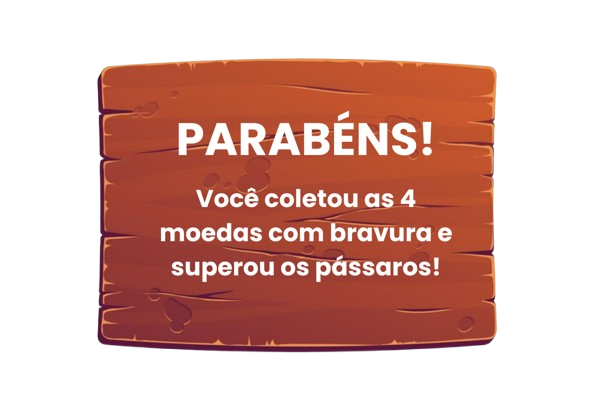
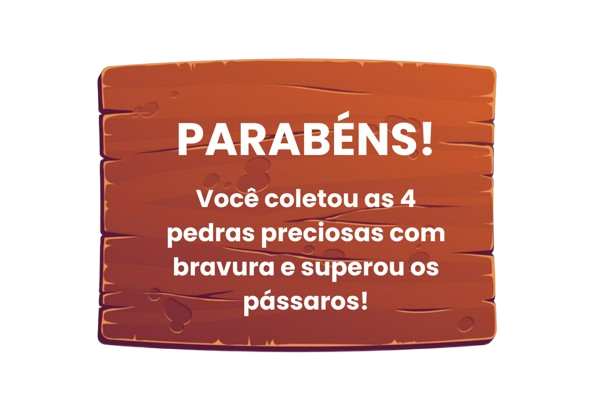
gameFinalizado

Changed region(s): [[0.2484, 0.5294, 0.7451, 0.7647]]

diff --git a/src/game.js b/src/game.js
@@ -6,12 +6,12 @@ class GameScene extends Phaser.Scene{
 
     //Carregando os elementos visuais do jogo (imagens, spritesheet e fonte).
     preload(){
-        this.load.spritesheet('player', 'assets/completePlayerSpritesheet.png', {frameWidth: 152, frameHeight: 129});
-        this.load.spritesheet('birdEnemy', 'assets/completeBirdSpritesheet.png', {frameWidth: 179,  frameHeight: 181});
-        this.load.image('backgroundGameScene', 'assets/background.jpg');
-        this.load.image('platform', 'assets/plataform.png');
-        this.load.image('platform2', 'assets/platform2.png');
-        this.load.spritesheet('coins', 'assets/coin.png', {frameWidth: 10, frameHeight: 10});
+        this.load.spritesheet('player', 'assets/completePlayerSpritesheet.png', {frameWidth: 152, frameHeight: 129}); //***REQUISITO DA ATIVIDADE: USO DE SPRITESHEET (PERSONAGEM).
+        this.load.spritesheet('birdEnemy', 'assets/completeBirdSpritesheet.png', {frameWidth: 179,  frameHeight: 181}); //***REQUISITO DA ATIVIDADE: USO DE SPRITESHEET (PÁSSARO INIMIGO).
+        this.load.image('backgroundGameScene', 'assets/background.jpg'); //***REQUISITO DA ATIVIDADE: CENÁRIO.
+        this.load.image('platform', 'assets/plataform.png'); //***REQUISITO DA ATIVIDADE: PLATAFORMA.
+        this.load.image('platform2', 'assets/platform2.png'); //***REQUISITO DA ATIVIDADE: PLATAFORMA.
+        this.load.image('gems', 'assets/gem.png');
         let poppins = new FontFace('Poppins', 'url(assets/Poppins-Bold.ttf)');
             poppins.load().then((loadedFont) => {
                 document.fonts.add(loadedFont);
@@ -26,21 +26,21 @@ class GameScene extends Phaser.Scene{
         this.physics.world.setBounds(0, 0, gameWidth * 2, gameHeight);
 
 
-        //Adicionando o background.
+        //Adicionando o background -> REQUISITO DA ATIVIDADE: CENÁRIO.
         this.background = this.add.tileSprite(0, 0, gameWidth, gameHeight, 'backgroundGameScene');
         this.background.setOrigin(0, 0);
         this.background.setScrollFactor(0); //Mantém o background fixo na tela durante o efeito parallax.
         this.background.setDisplaySize(gameWidth, gameHeight); //Tamanho do fundo
 
 
-        //Criando o jogador.
+        //Criando o jogador -> REQUISITO DA ATIVIDADE: USO DE SPRITESHEET (PERSONAGEM).
         this.player = this.physics.add.sprite(100, 200, 'player').setScale(0.5);
         this.player.setCollideWorldBounds(true);
         this.cameras.main.startFollow(this.player);
         this.cameras.main.setBounds(0, 0, gameWidth * 2, gameHeight);
 
 
-        //***ANIMAÇÕES DO JOGADOR***/
+        //***ANIMAÇÕES DO JOGADOR -> REQUISITO DA ATIVIDADE: USO DE SPRITESHEET (PERSONAGEM).***/
         //Animação: jogador parado.
         this.anims.create({
             key: 'stopped',
@@ -68,52 +68,56 @@ class GameScene extends Phaser.Scene{
         this.player.anims.play('stopped', true); //O jogador inicia o jogo com a animação de parado.
 
 
-         //Criando as plataformas.
+         //Criando as plataformas -> REQUISITOS DA ATIVIDADE: PLATAFORMA E LISTA.
          this.platforms = this.physics.add.staticGroup();
          var platformsList = ['platform', 'platform2', 'platform', 'platform2','platform', 'platform2','platform', 'platform2', 'platform', 'platform2'];
          var horizontalSpaceBetweenPlatforms = gameWidth * 4.5/platformsList.length;
 
 
-        //Texto dos pontos.
-        this.pointsText = this.add.text(100, 200, 'Moedas: 0').setScrollFactor(0).setStyle({fontSize: '40px', fontFamily: "Poppins"});
+        //Texto dos pontos -> REQUISITO DA ATIVIDADE: PLACAR.
+        this.pointsText = this.add.text(100, 200, 'Pedras preciosas: 0').setScrollFactor(0).setStyle({fontSize: '40px', fontFamily: "Poppins"});
 
 
-        //Grupos das moedinhas da recompensa.
-        this.coins = this.physics.add.group();
+        //Grupos das pedras preciosas da recompensa.
+        this.gems = this.physics.add.group();
 
 
-        // Laço de repetição para criar as plataformas e as moedinhas em cima delas.
+        // Laço de repetição para criar as plataformas e as pedras preciosas em cima delas -> REQUISITO DA ATIVIDADE: ESTRUTURA DE REPETIÇÃO.
         for (let i = 0; i < platformsList.length; i++) {
             let platformPositionX = horizontalSpaceBetweenPlatforms * i + Phaser.Math.Between(50, 75);
             var platformPositionY = Phaser.Math.Between(gameHeight / 2, gameHeight - 105);
             this.platforms.create(platformPositionX, platformPositionY, platformsList[i]).setScale(0.7).refreshBody();
             
-            // Na primeira plataforma (posição 0), não aparece moeda.
+
+            // Na primeira plataforma (posição 0), não aparece pedra preciosa -> REQUISITO DA ATIVIDADE: ESTRUTURA DE DECISÃO.
             if (i === 0) {
                 continue; // Usando o continue (lembrando dos autoestudos de computação da semana 2).
             }
 
-            //Posição das moedinhas alinhada com a da plataforma.
-            let coinPositionX = platformPositionX;
-            let coinPositionY = platformPositionY - 200;
+            //Posição das pedras preciosas alinhada com a da plataforma.
+            let gemPositionX = platformPositionX;
+            let gemPositionY = platformPositionY - 200;
 
-            // Posicionando as moedas nas plataformas (menos na primeira).
-            this.coins.create(coinPositionX, coinPositionY, 'coins').setScale(2.5);
+            // Posicionando as pedras preciosas nas plataformas (menos na primeira).
+            this.gems.create(gemPositionX, gemPositionY, 'gems').setScale(0.07);
         }
 
 
-         //Quando o jogador coleta as moedinhas, ele ganha pontos.
+         //Quando o jogador coleta as pedras preciosas, ele ganha pontos -> REQUISITO DA ATIVIDADE: PLACAR (PONTUAÇÃO).
          this.points = 0;
-         this.physics.add.overlap(this.player, this.coins, function(player, coin){
-            if(coin.active){
-                coin.setVisible(false);
-                coin.destroy();
+
+
+         //REQUISITO DA ATIVIDADE: RECURSOS DE OVERLAP OU COLISÃO (jogador e pedra preciosa).
+         this.physics.add.overlap(this.player, this.gems, function(player, gem){
+            if(gem.active){
+                gem.setVisible(false);
+                gem.destroy();
                 this.points = this.points + 1;
-                this.pointsText.setText('Moedas: ' + this.points);
+                this.pointsText.setText('Pedras preciosas: ' + this.points);
             }
 
 
-            //Se o jogador coletar todas as moedas, ele é direcionado à cena de vitória.
+            //Se o jogador coletar todas as pedras preciosas, ele é direcionado à cena de vitória -> REQUISITO DA ATIVIDADE: ESTRUTURA DE DECISÃO.
             if(this.points === 4){
                 this.scene.start("WinScene");
             }
@@ -121,7 +125,7 @@ class GameScene extends Phaser.Scene{
 
 
 
-        //*** PÁSSAROS: INIMIGOS -> O JOGADOR NÃO PODE ENCOSTAR NELES***/
+        //*** PÁSSAROS: INIMIGOS -> O JOGADOR NÃO PODE ENCOSTAR NELES -> REQUISITO DA ATIVIDADE: USO DE SPRITESHEET (PÁSSARO INIMIGO)***/
         //Pássaros.
         this.birds = this.physics.add.group({key: 'birdEnemy'});
 
@@ -142,12 +146,12 @@ class GameScene extends Phaser.Scene{
         });
 
 
-        //***COLISÕES***
+        //***COLISÕES -> REQUISITO DA ATIVIDADE: RECURSOS DE OVERLAP OU COLISÃO***
         //Adicionando a colisão entre jogador e plataformas.
         this.physics.add.collider(this.player, this.platforms);
 
-        //Adicionando a colisão entre moedinhas e plataformas.
-        this.physics.add.collider(this.coins, this.platforms);
+        //Adicionando a colisão entre as pedras preciosas e plataformas.
+        this.physics.add.collider(this.gems, this.platforms);
 
         //Adicionando a colisão entre o jogador e o pássaro, chamando a função hitPlayer.
         this.physics.add.overlap(this.player, this.birds, this.hitPlayer, null, this);
@@ -192,7 +196,7 @@ class GameScene extends Phaser.Scene{
         
     }
 
-    //Função para fazer os pássaros aparecem na tela de forma animada, vindo da direita para a esquerda.
+    //Função para fazer os pássaros aparecem na tela de forma animada, vindo da direita para a esquerda -> REQUISITO DA ATIVIDADE: USO DE FUNÇÃO.
     spawnBird() {
         var birdPositionX = Phaser.Math.Between(this.scale.width, this.scale.width * 2); //Posição horizontal do pássaro.
 
@@ -204,7 +208,8 @@ class GameScene extends Phaser.Scene{
         //Escolhendo uma plataforma qualquer para associar ao pássaro.
         platformY = this.platforms.getChildren()[randomPlatform].y;
 
-        //Com este laço de repetição, o pássaro não passa tão perto da plataforma, mas nem tão longe também.
+
+        //Com este laço de repetição, o pássaro não passa tão perto da plataforma, mas nem tão longe também -> REQUISITO DA ATIVIDADE: ESTRUTURA DE REPETIÇÃO.
         do {
             birdPositionY = Phaser.Math.Between(200, this.scale.height / 3);
         } while (Math.abs(birdPositionY - platformY) < 100); 
@@ -229,15 +234,15 @@ class GameScene extends Phaser.Scene{
     }
     
     
-    //Quando o jogador encosta no pássaro, ele morre.
+    //Quando o jogador encosta no pássaro, ele morre -> REQUISITO DA ATIVIDADE: USO DE FUNÇÃO.
     hitPlayer(player, bird){
         this.killPlayer();
     }
 
-    //Função para matar o jogador se ele pisar no "chão" do fundo.
+    //Função para matar o jogador se ele pisar no "chão" do fundo -> REQUISITO DA ATIVIDADE: USO DE FUNÇÃO.
     killPlayer(){
         this.scene.start('GameOverScene', { points: this.points });
-        console.log("Morreu");
+        console.log("Player is dead!");
     }
 }
 

diff --git a/src/winScene.js b/src/winScene.js
@@ -8,7 +8,7 @@ class WinScene extends Phaser.Scene{
     preload(){
         this.load.image('background', 'assets/background.jpg');
         this.load.image('congratulationsMessage', 'assets/congratulationsMessage.png');
-        this.load.image('playAgainButton', 'assets/playAgainButton.png')
+        this.load.image('playAgainButton', 'assets/playAgainButton.png');
     }
 
     create(){
@@ -23,7 +23,7 @@ class WinScene extends Phaser.Scene{
         //Mensagem de vitória.
         this.congratulationsMessage = this.add.image(gameWidth/2, gameHeight/2, 'congratulationsMessage');
 
-        //Botão de reiniciar
+        //Botão de reiniciar.
         var restartButton = this.add.image(gameWidth / 2, gameHeight/1.25, 'playAgainButton').setScale(0.6).setInteractive();
 
         //Quando o botão de reiniciar é clicado, o jogador pode voltar ao jogo.

diff --git a/src/gameOverScene.js b/src/gameOverScene.js
@@ -29,8 +29,8 @@ class GameOverScene extends Phaser.Scene{
         //Mensagem de derrota.
         this.defeatMessage = this.add.image(gameWidth/2, gameHeight/2.5, 'defeatMessage');
 
-        //Mostrando quantas moedas o jogador coletou.
-        this.add.text(gameWidth / 2, gameHeight /1.5, `Moedas coletadas: ${data.points}`, {fontSize: "25px",fontFamily: "Poppins", color: "#ffffff"}).setOrigin(0.5);
+        //Mostrando quantas pedras preciosas o jogador coletou.
+        this.add.text(gameWidth / 2, gameHeight /1.5, `Pedras preciosas coletadas: ${data.points}`, {fontSize: "25px",fontFamily: "Poppins", color: "#ffffff"}).setOrigin(0.5);
         
         //Botão de reiniciar da tela de derrota
         var restartButton = this.add.image(gameWidth / 2, gameHeight/1.3, 'playAgainButton').setScale(0.7).setInteractive();

diff --git a/src/initialScene.js b/src/initialScene.js
@@ -6,13 +6,13 @@ class InitialScene extends Phaser.Scene {
 
     preload() {
         //Carregando as imagens que serão usadas na tela de início do jogo.
-        this.load.image('backgroundInitialScene', 'assets/background.jpg');
+        this.load.image('backgroundInitialScene', 'assets/background.jpg'); 
         this.load.image('startButton', 'assets/newStartButton.png');
         this.load.image('howToPlayButton', 'assets/howToPlayButton.png');
         this.load.image('gameName', 'assets/gameName.png');
     }
 
-    
+
     create() {
         //Altura e largura do jogo.
         var gameWidth = 1200;

diff --git a/index.html b/index.html
@@ -35,7 +35,7 @@
                 type: Phaser.AUTO,
                 width: 1200,
                 height: 800,
-                scene: [InitialScene, Tutorial, GameScene, WinScene, GameOverScene],
+                scene: [InitialScene, Tutorial, GameScene, WinScene, GameOverScene], //REQUISITO DA ATIVIDADE: ESTRUTURANDO O JOGO EM DUAS OU MAIS CENAS.
                 parent: "gameSpace",
                 physics: {
                     default: 'arcade',

diff --git a/src/tutorial.js b/src/tutorial.js
@@ -6,7 +6,7 @@ class Tutorial extends Phaser.Scene{
 
     //Carregando as imagens a serem usadas na tela de tutorial.
     preload(){
-        this.load.image('tutorialBackground', 'assets/howToPlayBackground.png');
+        this.load.image('tutorialBackground', 'assets/howToPlayBackground.png'); //REQUISITO DA ATIVIDADE: MOSTRAR OS CONTROLES DO JOGO.
         this.load.image('comeBackButton', 'assets/comeBackButton.png')
     }
 
